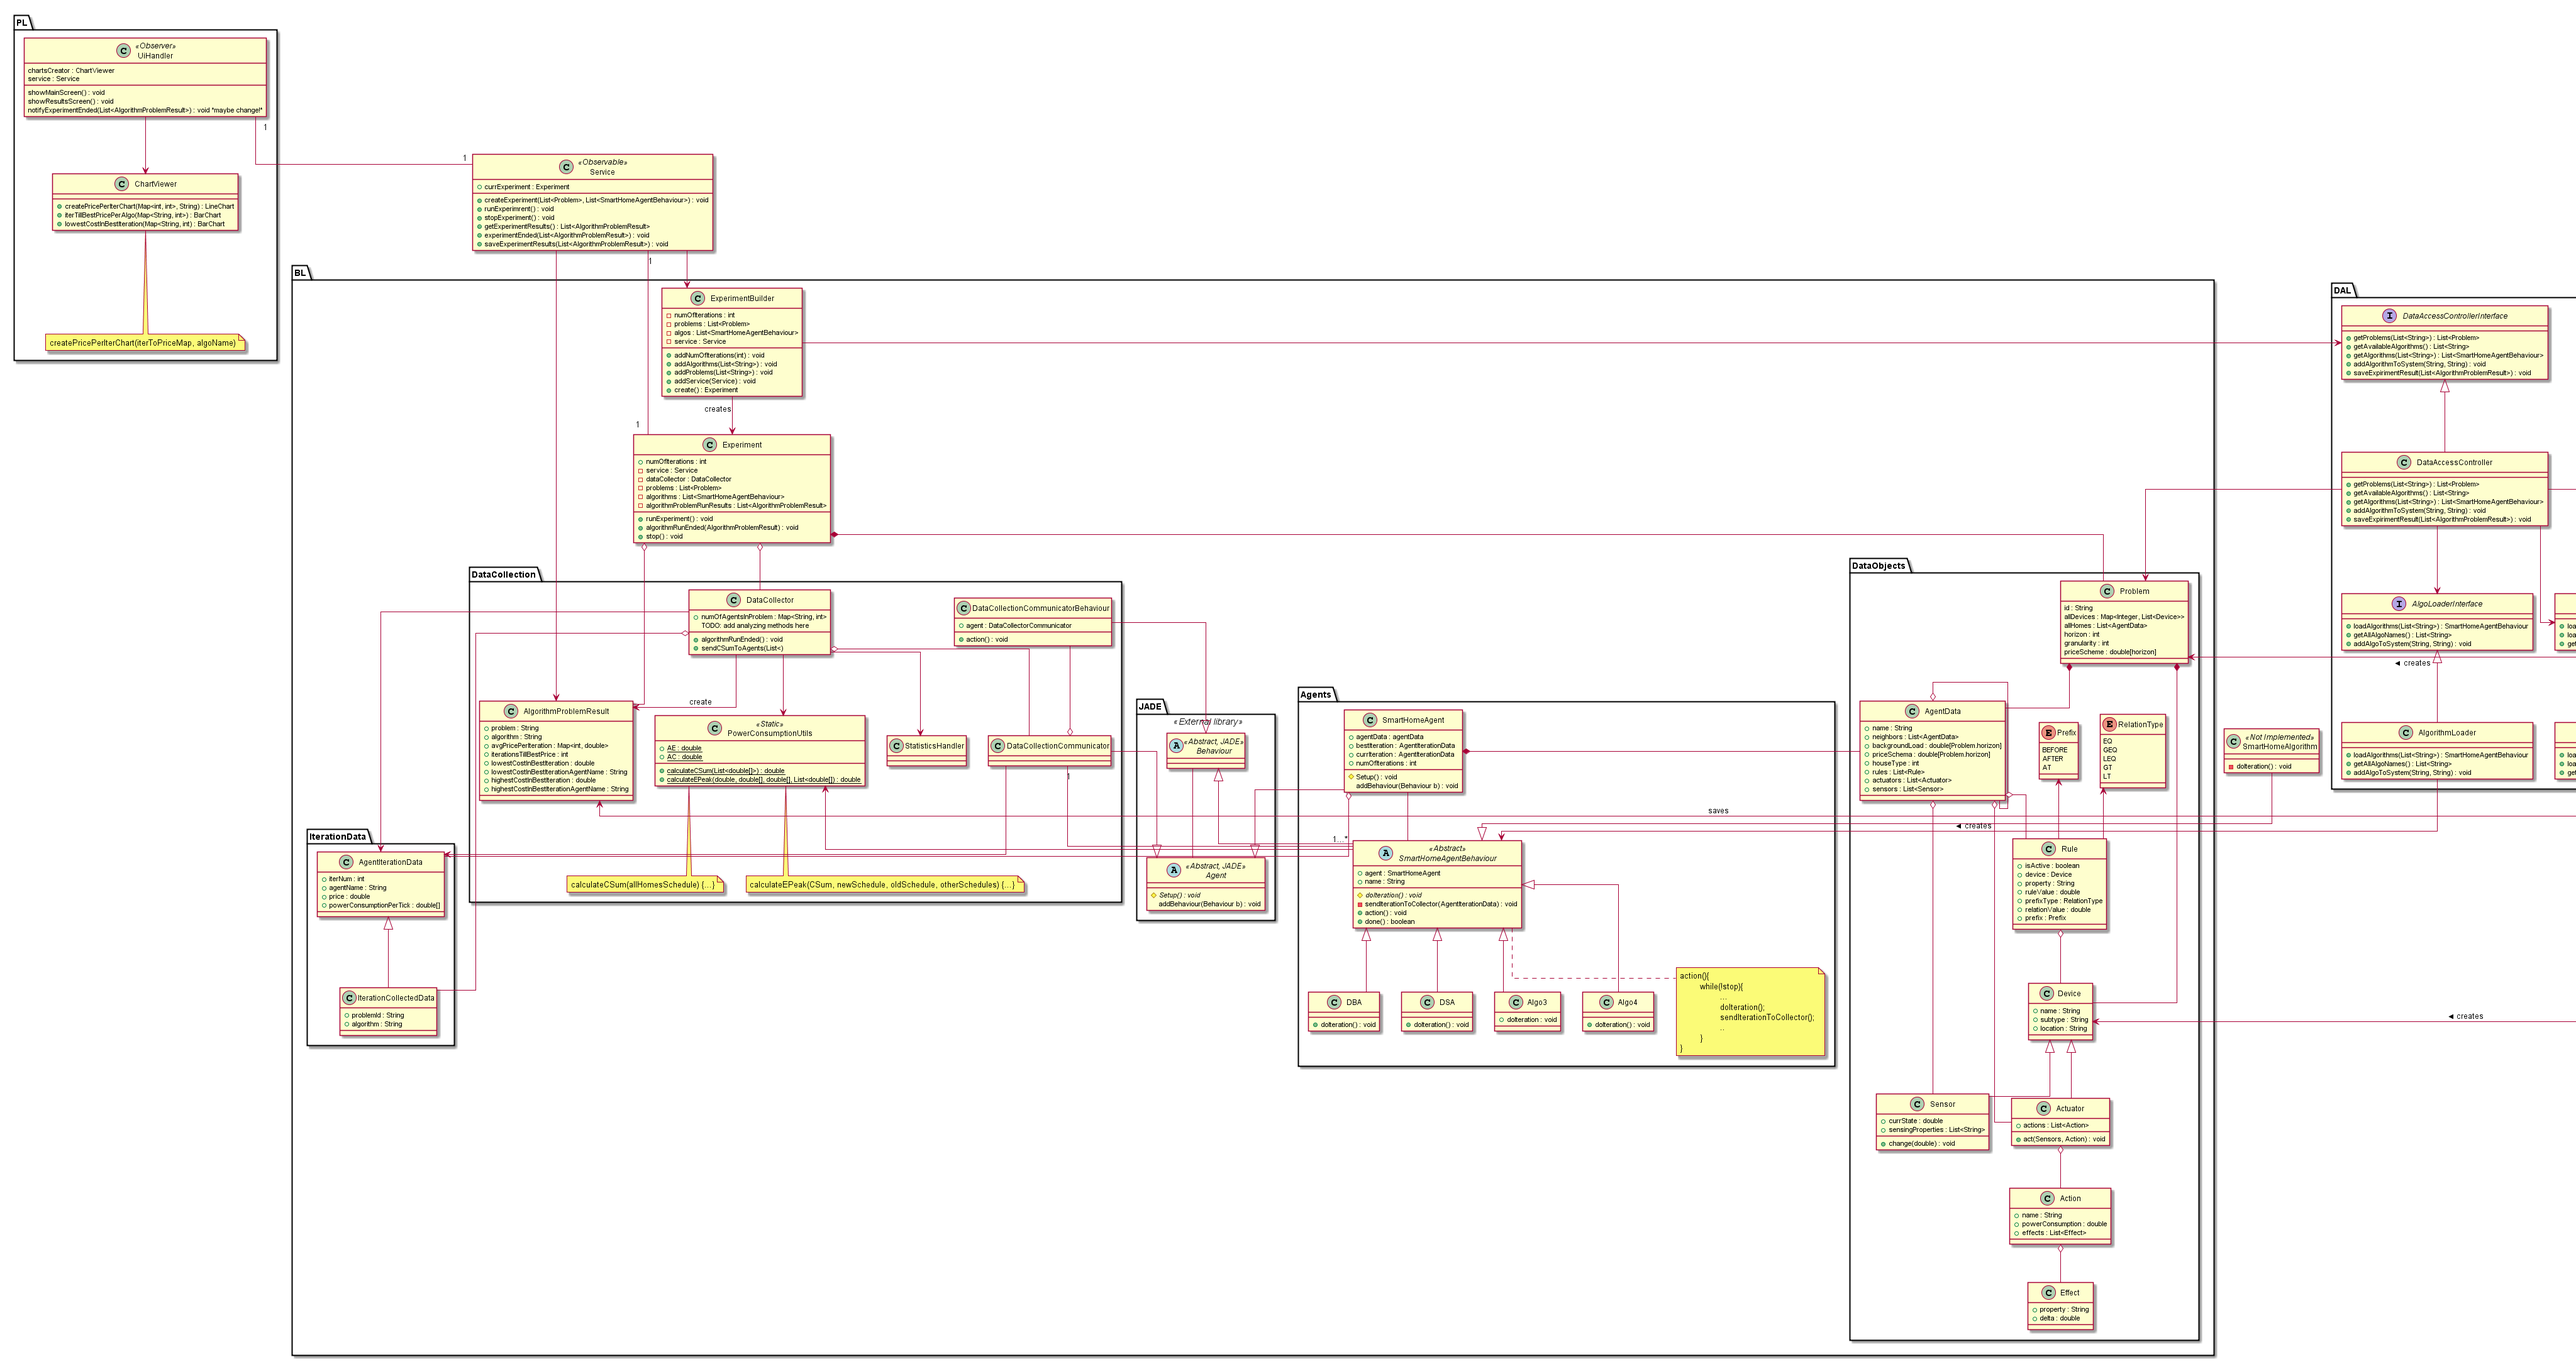
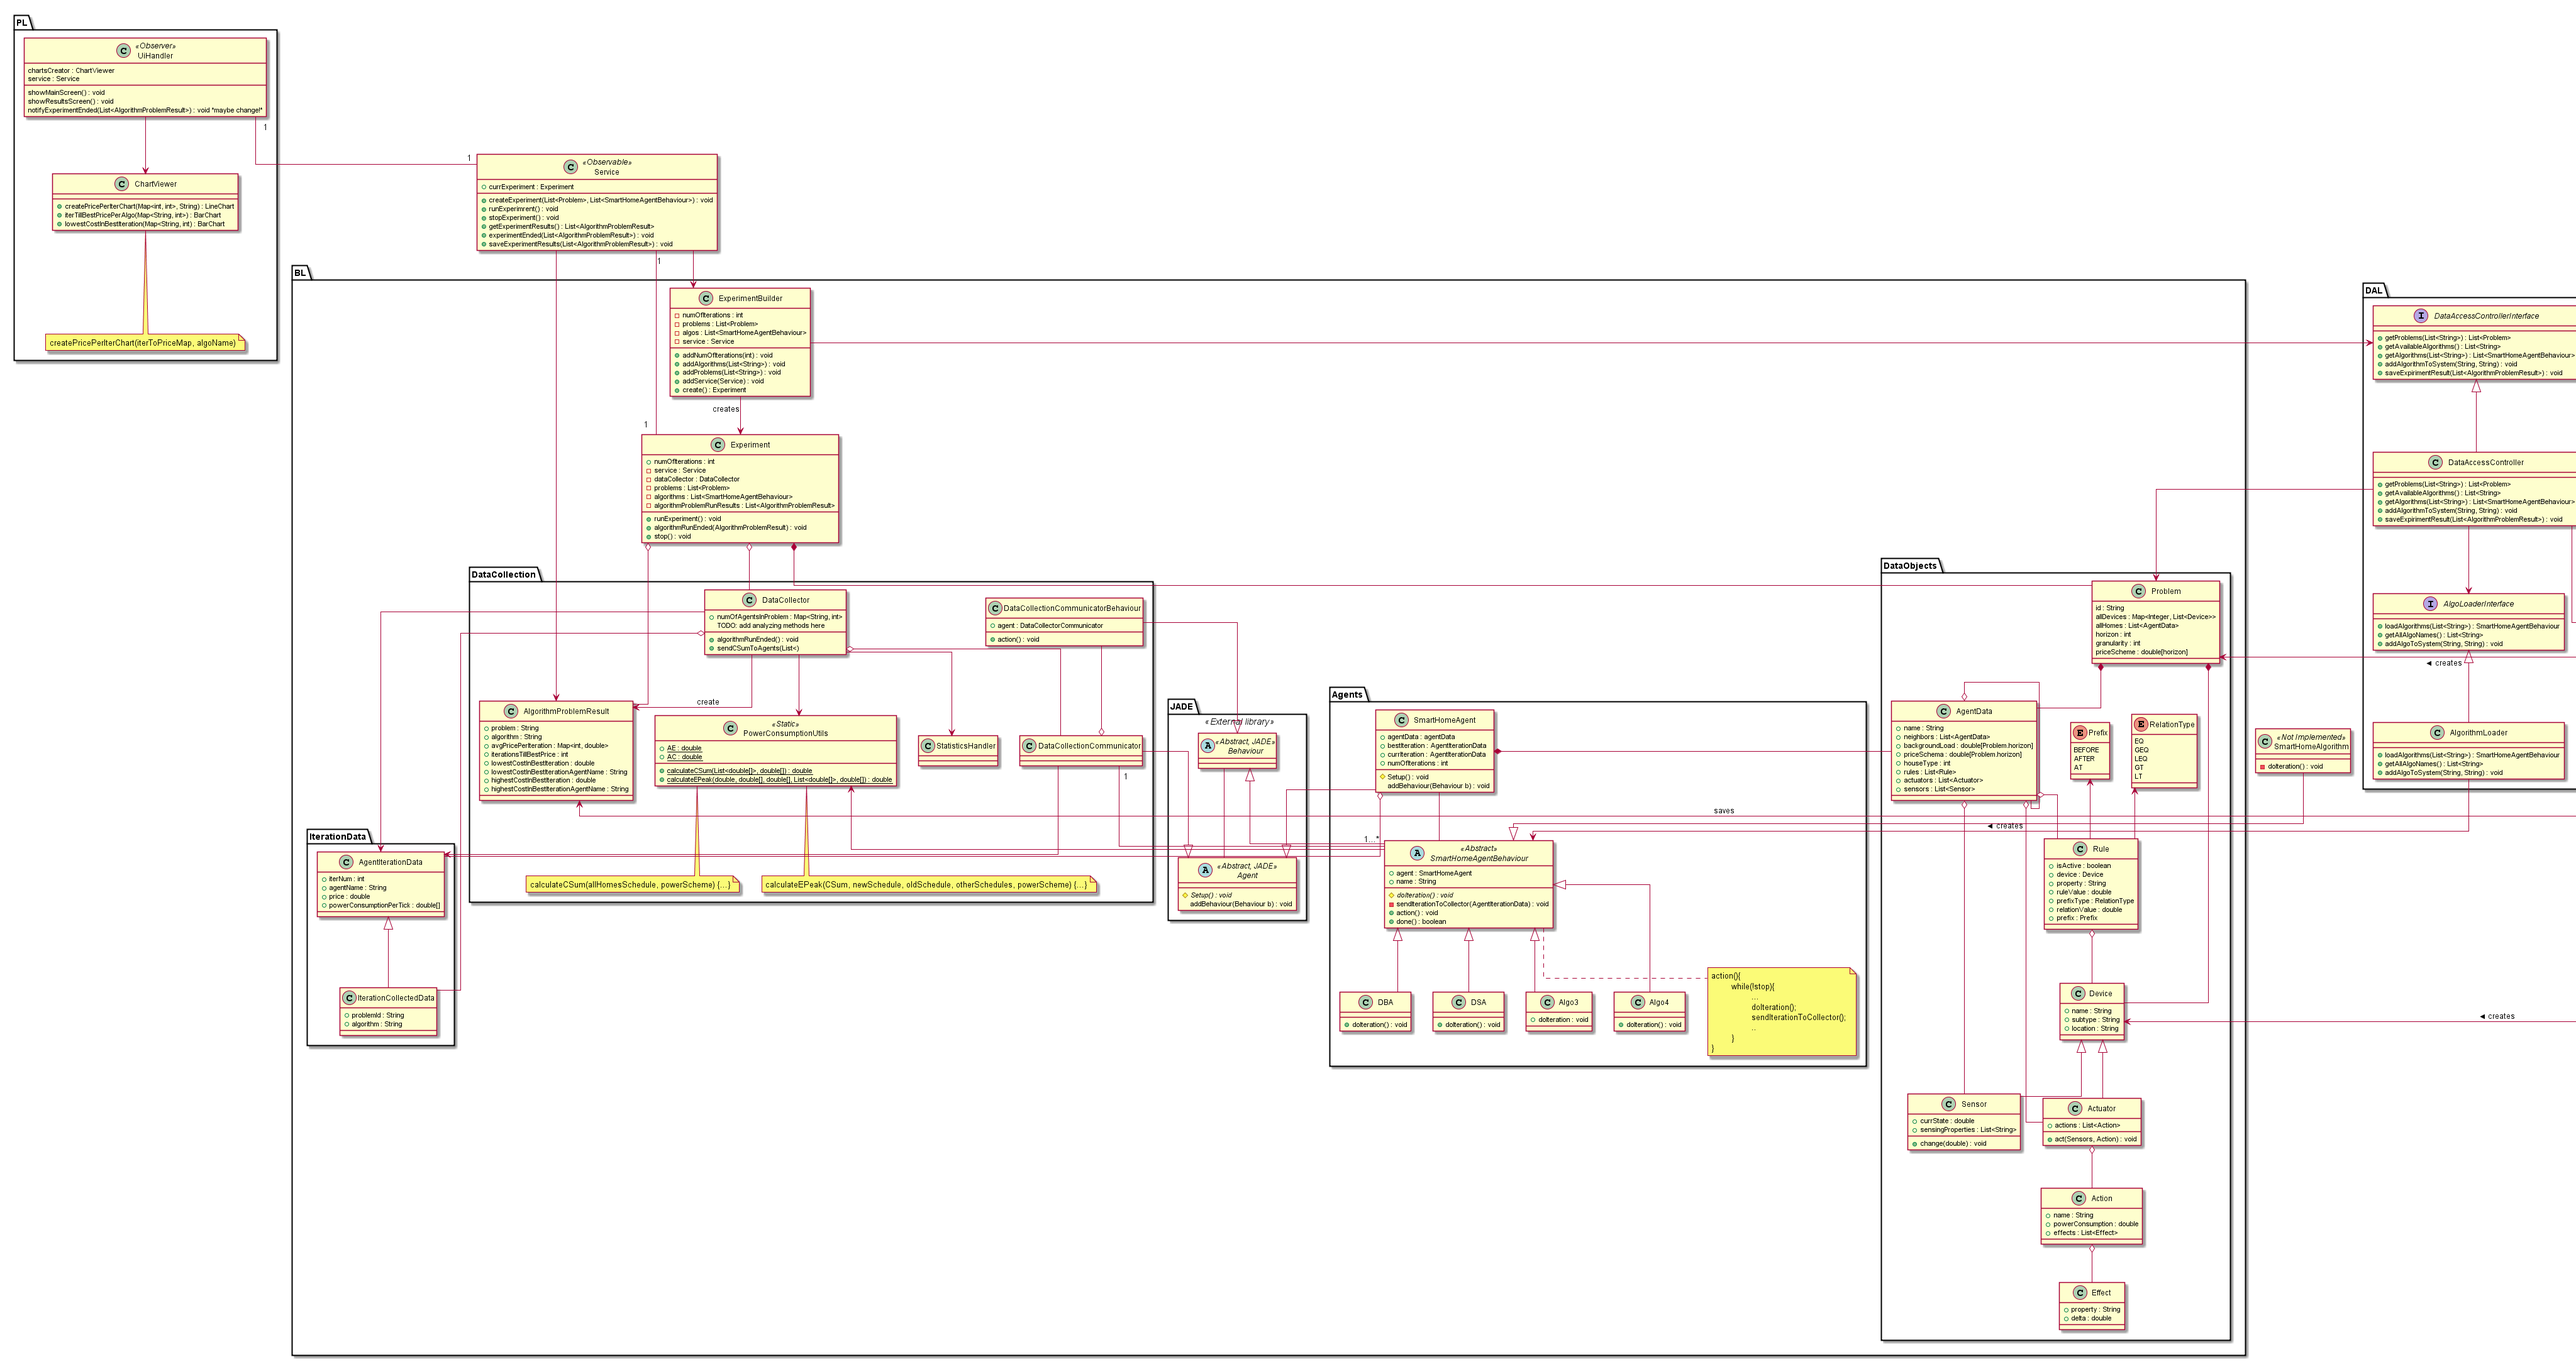
class diagram: added  powerScheme as arg to static class

diff --git a/Final/src/main/java/FinalProject/BL/DataCollection/PowerConsumptionUtils.java b/Final/src/main/java/FinalProject/BL/DataCollection/PowerConsumptionUtils.java
@@ -1,0 +1,7 @@
+package FinalProject.BL.DataCollection;
+
+/**
+ * Created by oded on 12/22/2017.
+ */
+public class PowerConsumptionUtils {
+}
